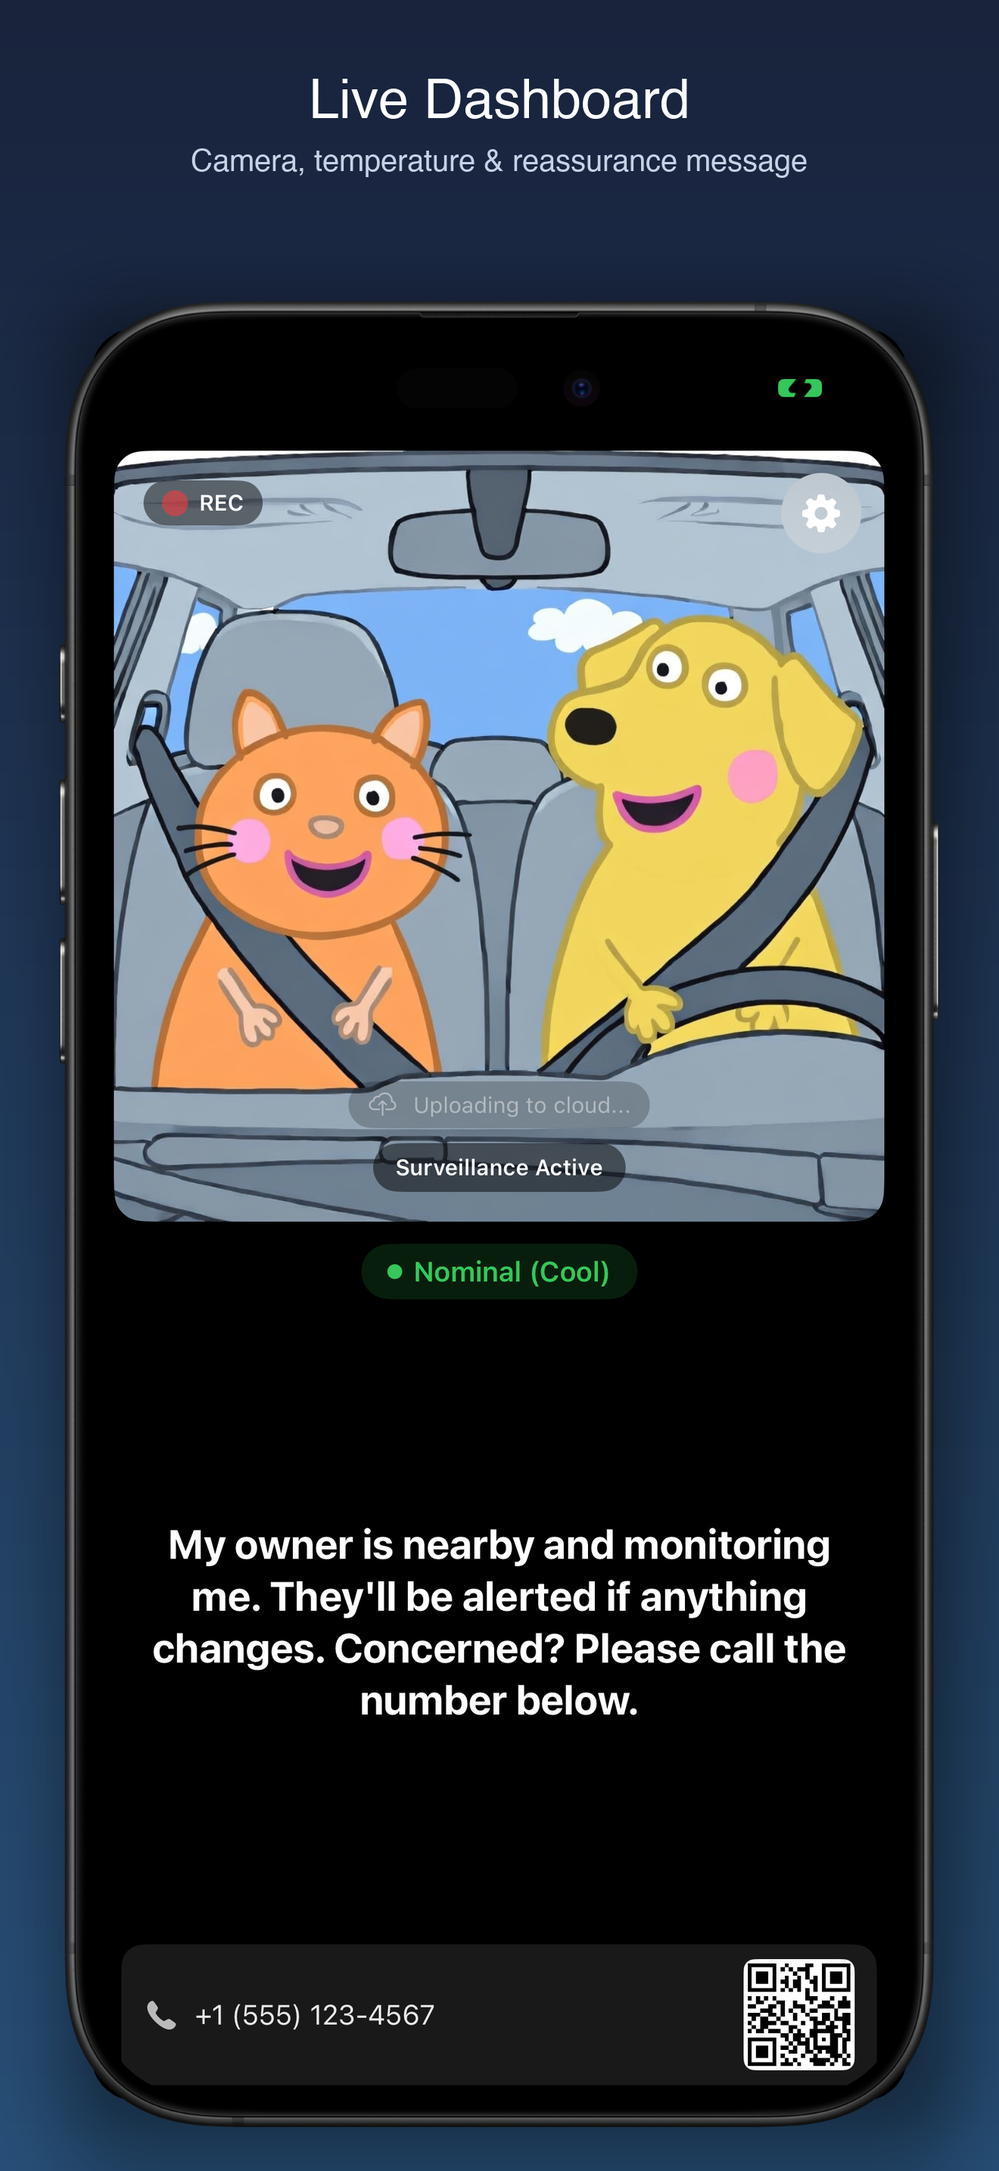
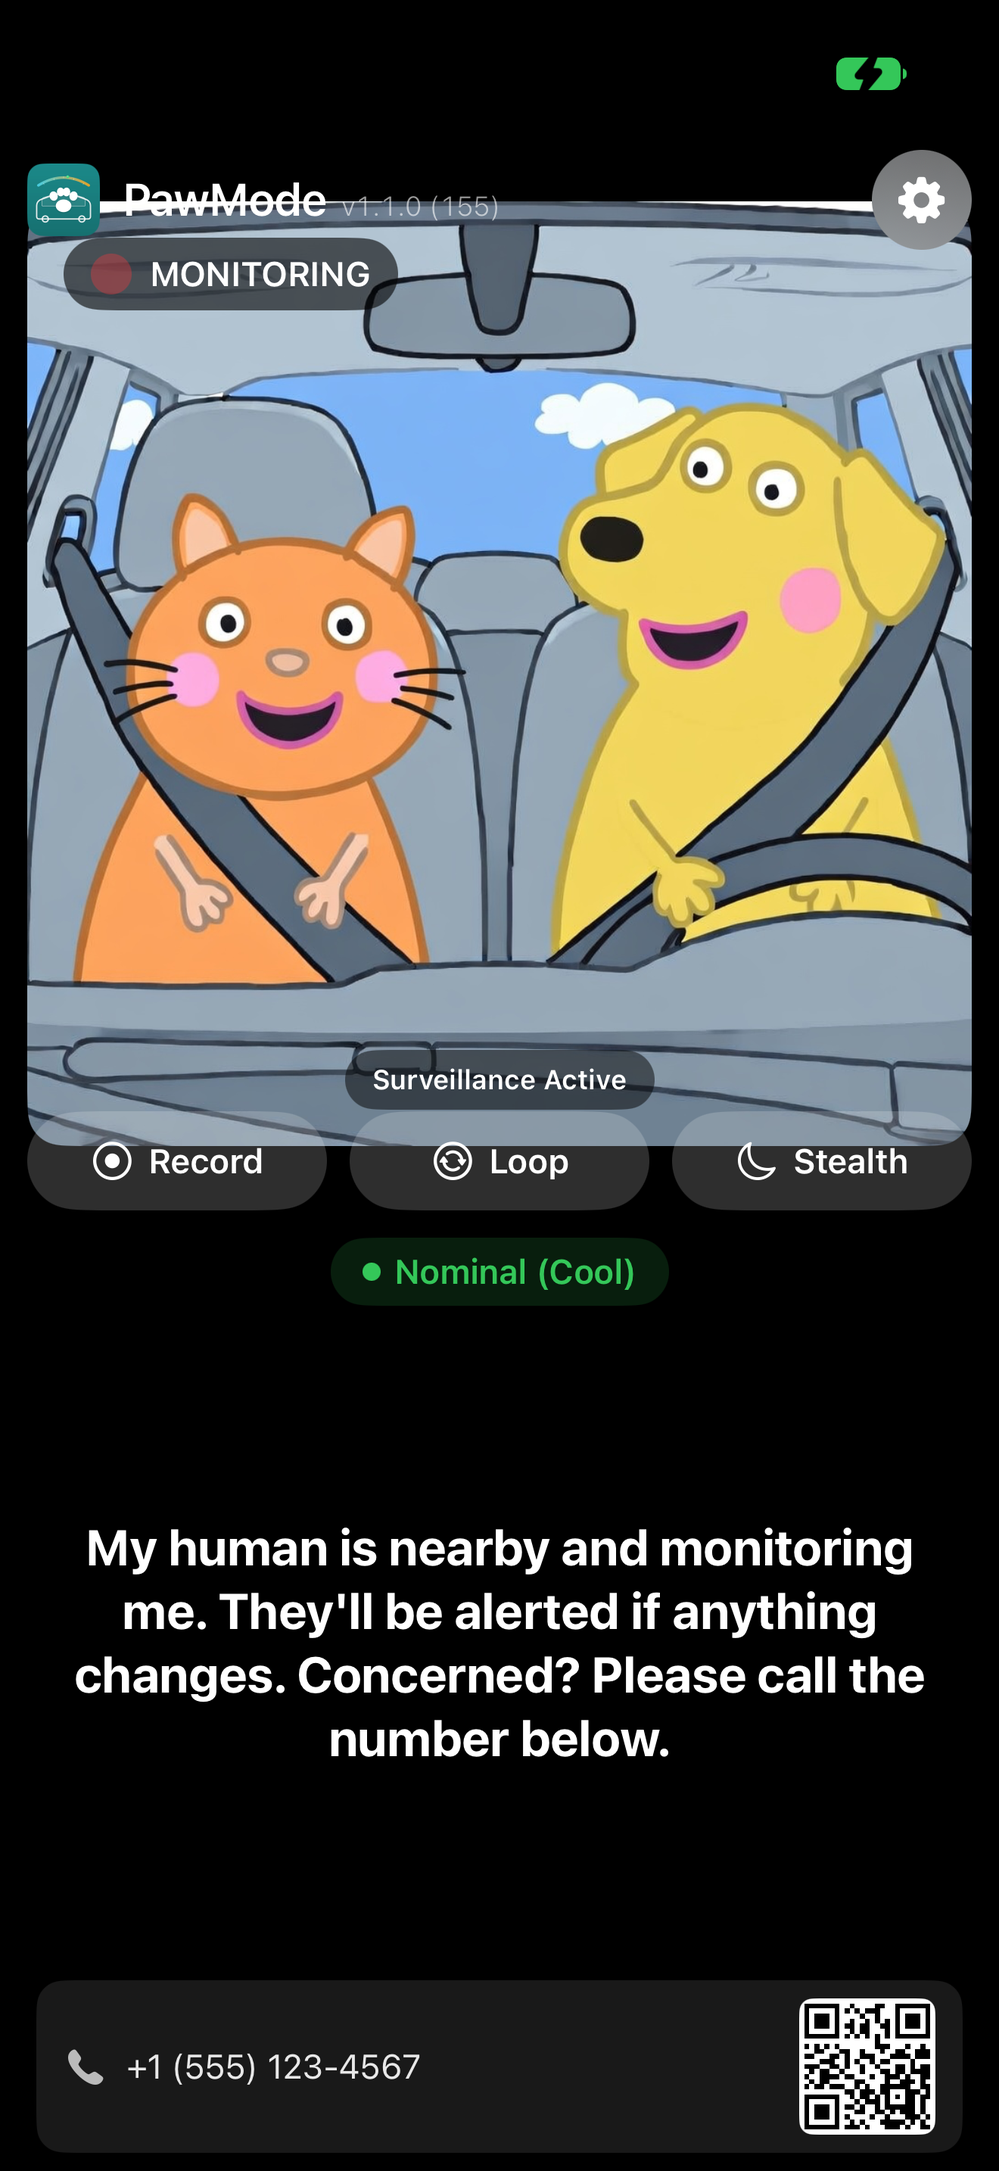
Give PawMode its own featured section and mark 1.1.0 live (#4)
* - promote PawMode to its own featured section, matching the HoverCalc layout
- add feature_promo.png, the Monitor/Personal phone pair cropped from the composite
- give the feature image a navy panel variant so the opaque crop reads as a card
- drop the PawMode card from the "On the workbench" grid now that 1.1.0 is live
- replace the removed idle-dim claim with the opt-in bright-screen behaviour (en/nl/fr)
- update the press kit from "coming soon / in review" to live on the App Store, v1.1.0
- note on the press page that one subscription now covers both paired phones

* - refresh the PawMode screenshots and promo art from the current app
- the Personal dashboard now shows the pet snapshot above View Camera instead of an empty panel
- the Monitor no longer shoots the "No personal phone paired" banner or free-tier padlocks

* - refresh PawMode promo art from the guarded screenshot run

diff --git a/index.html b/index.html
@@ -67,7 +67,7 @@
     *,*::before,*::after{box-sizing:border-box}*{margin:0}html{scroll-behavior:smooth}body{font-family:"DM Sans",sans-serif;color:#17202a;background:#f7f8f5;line-height:1.65;-webkit-font-smoothing:antialiased}img{display:block;max-width:100%}a{color:inherit;text-decoration:none}button{font:inherit}.wrap{width:min(1180px,calc(100% - 48px));margin-inline:auto}.eyebrow{font-size:.76rem;font-weight:700;letter-spacing:.14em;text-transform:uppercase;color:#506757}.section-head{display:flex;align-items:end;justify-content:space-between;gap:32px;margin-bottom:40px}.section-head h2{font:800 clamp(2rem,4vw,3.5rem)/1.05 "Manrope",sans-serif;letter-spacing:-.05em;max-width:700px}.section-head p{color:#657068;max-width:430px}.pill{display:inline-flex;align-items:center;gap:8px;padding:8px 12px;border:1px solid rgba(24,45,31,.12);border-radius:99px;font-size:.76rem;font-weight:700;letter-spacing:.05em;text-transform:uppercase;background:rgba(255,255,255,.55)}.pill::before{content:"";width:7px;height:7px;border-radius:50%;background:#5e7e67}.btn{display:inline-flex;justify-content:center;align-items:center;min-height:48px;padding:0 20px;border-radius:12px;font-weight:700;transition:transform .2s,background .2s,border-color .2s}.btn:hover{transform:translateY(-2px)}.btn-dark{background:#16231a;color:#fff}.btn-light{background:#fff;border:1px solid #dce1dc}.text-link{font-weight:700;border-bottom:1px solid currentColor;padding-bottom:2px}.skip{position:absolute;left:-9999px}.skip:focus{left:12px;top:12px;background:#fff;padding:10px;z-index:999}
     nav{position:absolute;inset:0 0 auto;z-index:10}.nav-inner{height:86px;display:flex;align-items:center;justify-content:space-between}.brand{display:flex;align-items:center;gap:12px;font:800 1rem "Manrope",sans-serif}.brand img{width:38px;height:38px;object-fit:contain}.nav-links{display:flex;align-items:center;gap:28px;list-style:none;font-size:.9rem;font-weight:600}.nav-links a{opacity:.72}.nav-links a:hover{opacity:1}.nav-contact{padding:10px 15px;border:1px solid rgba(23,32,42,.16);border-radius:10px}.menu{display:none;background:none;border:0;padding:8px;cursor:pointer}.menu span{display:block;width:23px;height:2px;background:#17202a;margin:5px}
     .hero{min-height:760px;padding:150px 0 90px;background:#e7ede5;position:relative;overflow:hidden}.hero::before{content:"";position:absolute;width:760px;height:760px;border-radius:50%;background:#d4dfd2;right:-190px;top:-280px}.hero::after{content:"";position:absolute;width:350px;height:350px;border:1px solid rgba(37,70,45,.12);border-radius:50%;right:12%;bottom:-210px}.hero-grid{position:relative;z-index:1;display:grid;grid-template-columns:1.05fr .95fr;align-items:center;gap:80px}.hero h1{font:800 clamp(3.5rem,7vw,6.4rem)/.93 "Manrope",sans-serif;letter-spacing:-.075em;max-width:730px;margin:24px 0 28px}.hero-copy>p{font-size:clamp(1.06rem,1.8vw,1.3rem);color:#4f5d53;max-width:590px}.hero-actions{display:flex;gap:12px;flex-wrap:wrap;margin-top:34px}.hero-visual{position:relative;min-height:490px}.hero-card{position:absolute;border-radius:25px;box-shadow:0 25px 70px rgba(32,50,38,.18);overflow:hidden}.hero-card img{width:100%;height:100%;object-fit:cover}.hero-card-main{inset:20px 50px 20px 0;background:#15261b;transform:rotate(-2deg);padding:22px}.hero-card-main img{object-fit:contain;border-radius:14px}.hero-card-small{width:185px;height:305px;right:0;bottom:-8px;background:#fbfcfa;padding:10px;transform:rotate(5deg)}.hero-card-small img{object-fit:cover;object-position:top;border-radius:16px}.floating-note{position:absolute;top:0;right:10px;z-index:3;background:#fff;padding:13px 16px;border-radius:14px;box-shadow:0 16px 40px rgba(32,50,38,.12);font-size:.82rem;font-weight:700}.floating-note span{color:#607267;font-weight:500;display:block}
-    .featured{padding:110px 0}.featured-card{display:grid;grid-template-columns:.92fr 1.08fr;min-height:590px;background:#17231b;color:#fff;border-radius:30px;overflow:hidden}.feature-copy{padding:64px;display:flex;flex-direction:column;align-items:start;justify-content:center}.feature-copy .eyebrow{color:#9bb2a0}.feature-copy h3{font:800 clamp(2.6rem,5vw,4.5rem)/1 "Manrope",sans-serif;letter-spacing:-.055em;margin:16px 0}.feature-copy>p{color:#c4cec7;font-size:1.12rem;max-width:470px}.feature-list{display:flex;flex-wrap:wrap;gap:8px;margin:30px 0 35px}.feature-list span{padding:7px 11px;background:rgba(255,255,255,.08);border-radius:99px;font-size:.78rem}.feature-copy .btn{background:#f7f8f5;color:#17231b}.feature-image{display:flex;align-items:center;justify-content:center;padding:50px;background:radial-gradient(circle at 50% 45%,#557460 0,#2b4433 45%,#203027 70%)}.feature-image img{filter:drop-shadow(0 28px 36px rgba(0,0,0,.38));max-height:490px;object-fit:contain}
+    .featured{padding:110px 0}.featured-card{display:grid;grid-template-columns:.92fr 1.08fr;min-height:590px;background:#17231b;color:#fff;border-radius:30px;overflow:hidden}.feature-copy{padding:64px;display:flex;flex-direction:column;align-items:start;justify-content:center}.feature-copy .eyebrow{color:#9bb2a0}.feature-copy h3{font:800 clamp(2.6rem,5vw,4.5rem)/1 "Manrope",sans-serif;letter-spacing:-.055em;margin:16px 0}.feature-copy>p{color:#c4cec7;font-size:1.12rem;max-width:470px}.feature-list{display:flex;flex-wrap:wrap;gap:8px;margin:30px 0 35px}.feature-list span{padding:7px 11px;background:rgba(255,255,255,.08);border-radius:99px;font-size:.78rem}.feature-copy .btn{background:#f7f8f5;color:#17231b}.feature-image{display:flex;align-items:center;justify-content:center;padding:50px;background:radial-gradient(circle at 50% 45%,#557460 0,#2b4433 45%,#203027 70%)}.feature-image img{filter:drop-shadow(0 28px 36px rgba(0,0,0,.38));max-height:490px;object-fit:contain}.feature-image.paw{background:radial-gradient(circle at 50% 45%,#2c5480 0,#20395b 55%,#182b45 100%)}.feature-image.paw img{border-radius:18px}
     .apps{padding:20px 0 115px}.app-grid{display:grid;grid-template-columns:repeat(3,1fr);gap:22px}.app-card{display:flex;flex-direction:column;background:#fff;border:1px solid #e2e5e0;border-radius:22px;overflow:hidden;transition:transform .25s,box-shadow .25s}.app-card:hover{transform:translateY(-5px);box-shadow:0 24px 55px rgba(24,45,31,.1)}.app-art{height:280px;padding:25px;position:relative;overflow:hidden}.app-art img{height:100%;width:100%;object-fit:contain;position:relative;z-index:1;filter:drop-shadow(0 18px 25px rgba(0,0,0,.18))}.app-art.pdp{background:#f2ebe5}.app-art.unfold{background:#e8e9f1}.app-art.paw{background:#e9eee6}.app-art.listsweep{background:#e8eef8}.abstract-icon{height:100%;display:grid;place-items:center;position:relative}.abstract-icon .glyph{width:130px;height:130px;border-radius:30px;display:grid;place-items:center;font:800 3rem "Manrope";box-shadow:0 20px 35px rgba(35,42,56,.2)}.unfold .glyph{background:linear-gradient(145deg,#333849,#11141c);color:#e6e8f2}.unfold .glyph::after{content:"";width:42px;height:54px;border:4px solid currentColor;border-top-width:13px;border-radius:7px}.paw .glyph{background:linear-gradient(145deg,#738b68,#2e4934);color:#fff}.paw .glyph::after{content:"●  ●";letter-spacing:9px;font-size:1.1rem}.listsweep .glyph{background:linear-gradient(145deg,#3a7bd5,#0a84ff);color:#fff}.listsweep .glyph::after{content:"↺";font-size:3.4rem;font-weight:300;line-height:1}.app-body{padding:27px;display:flex;flex-direction:column;flex:1}.app-top{display:flex;justify-content:space-between;align-items:center;gap:12px}.app-body h3{font:800 1.5rem "Manrope";letter-spacing:-.035em}.app-body>p{color:#667169;margin:13px 0 24px}.app-body .text-link{margin-top:auto;align-self:flex-start}.status{font-size:.7rem;font-weight:700;text-transform:uppercase;letter-spacing:.08em;color:#5e7164}.status.live{color:#24653a}
     .about{padding:110px 0;background:#ecefe9}.about-grid{display:grid;grid-template-columns:.85fr 1.15fr;gap:110px}.about h2{font:800 clamp(2.2rem,4vw,3.6rem)/1.05 "Manrope";letter-spacing:-.05em;margin-top:16px}.about-copy{font-size:1.1rem;color:#4f5b53}.about-copy p+p{margin-top:18px}.expertise{display:flex;flex-wrap:wrap;gap:9px;margin-top:28px}.expertise span{padding:8px 12px;border:1px solid #cbd3ca;border-radius:8px;background:rgba(255,255,255,.35);font-size:.82rem;font-weight:600}
     .testimonials{padding:115px 0}.quotes{columns:3;column-gap:20px}.quote{break-inside:avoid;margin-bottom:20px;padding:27px;background:#fff;border:1px solid #e1e5df;border-radius:18px}.quote::before{content:"“";display:block;font:700 3.3rem/1 Georgia;color:#9aab9c}.quote blockquote{color:#4e5951}.person{display:flex;align-items:center;gap:11px;margin-top:24px}.avatar{display:grid;place-items:center;width:38px;height:38px;border-radius:50%;background:#e4ebe2;font-size:.7rem;font-weight:700}.person strong{font:700 .9rem "Manrope";display:block}.person span{font-size:.78rem;color:#778079}
@@ -108,6 +108,16 @@
 
     <section class="featured">
       <div class="wrap">
+        <div class="section-head"><div><span class="eyebrow">New release</span><h2>Meet PawMode.</h2></div><p>Turn a spare iPhone into a live pet monitor for any parked car, and check in on it from your pocket.</p></div>
+        <article class="featured-card">
+          <div class="feature-copy"><span class="eyebrow">For iPhone &amp; iPad</span><h3>Never leave them without a watchful eye.</h3><p>One iPhone stays in the car and watches over your pet. The other stays with you. They check in every minute, so you know your pet is fine &mdash; and hear about it the moment they are not.</p><div class="feature-list"><span>Live camera</span><span>Thermal alerts</span><span>Pair by QR code</span><span>Message for passersby</span></div><a class="btn" href="https://apps.apple.com/app/id6749402535" target="_blank" rel="noopener noreferrer">View on the App Store →</a></div>
+          <div class="feature-image paw"><img src="assets/apps/pawmode/feature_promo.png" alt="PawMode Monitor and Personal modes side by side on two iPhones"></div>
+        </article>
+      </div>
+    </section>
+
+    <section class="featured">
+      <div class="wrap">
         <div class="section-head"><div><span class="eyebrow">Also available</span><h2>Meet HoverCalc.</h2></div><p>A fast calculator that is there when you need it and out of the way when you don’t.</p></div>
         <article class="featured-card">
           <div class="feature-copy"><span class="eyebrow">For macOS</span><h3>Math, without breaking your flow.</h3><p>Run quick calculations from the menu bar, or detach HoverCalc into a floating panel that follows you across desktops and fullscreen apps.</p><div class="feature-list"><span>Global hotkey</span><span>Floating panel</span><span>Calculation history</span><span>Six themes</span></div><a class="btn" href="https://apps.apple.com/be/app/hovercalc/id6759318126?mt=12" target="_blank" rel="noopener noreferrer">View on the Mac App Store →</a></div>
@@ -121,7 +131,6 @@
         <div class="app-grid">
           <article class="app-card"><div class="app-art pdp"><img src="assets/apps/pickdateplace/organizer-02.png" alt="PickDatePlace date options on iPhone"></div><div class="app-body"><div class="app-top"><h3>PickDatePlace</h3><span class="status">In development</span></div><p>Choose the date first, then the place. Create an availability poll in iMessage and find the time that works for everyone.</p><a class="text-link" href="pickdateplace/">Discover PickDatePlace →</a></div></article>
           <article class="app-card"><div class="app-art unfold"><div class="abstract-icon"><div class="glyph" aria-hidden="true"></div></div></div><div class="app-body"><div class="app-top"><h3>Unfold</h3><span class="status">In development</span></div><p>A window-aware macOS app switcher. Move from an app directly to the exact window you need, without reaching for the mouse.</p><a class="text-link" href="unfold/">Discover Unfold →</a></div></article>
-          <article class="app-card"><div class="app-art paw"><div class="abstract-icon"><div class="glyph" aria-hidden="true"></div></div></div><div class="app-body"><div class="app-top"><h3>PawMode</h3><span class="status">In development</span></div><p>Turn a spare iPhone into a vehicle monitor that watches temperature and helps reassure passersby that your pet is safe.</p><a class="text-link" href="pawmode/">Discover PawMode →</a></div></article>
           <article class="app-card"><div class="app-art listsweep"><img src="assets/apps/listsweep/icon.png" alt="ListSweep app icon"></div><div class="app-body"><div class="app-top"><h3>ListSweep</h3><span class="status">In development</span></div><p>Bulk-reset completed Apple Reminders in one tap. Recurring checklists, swipe actions, and Siri &amp; Shortcuts — private and on-device.</p><a class="text-link" href="listsweep/">Discover ListSweep →</a></div></article>
         </div>
       </div>

diff --git a/pawmode/press/index.html b/pawmode/press/index.html
@@ -214,15 +214,16 @@
   <section class="hero">
     <div class="hero-content">
       <img class="hero-icon" src="/assets/apps/pawmode/icon.png" alt="PawMode app icon">
-      <span class="eyebrow">Press &amp; Media Kit</span><span class="status-pill">Coming soon</span>
+      <span class="eyebrow">Press &amp; Media Kit</span><span class="status-pill">Now on the App Store</span>
       <h1>PawMode</h1>
       <p class="tagline">Monitor your pet in the car.</p>
       <p class="lede">Turn a spare iPhone into a live pet monitor for any parked car &mdash; check in on your pet from anywhere.</p>
       <div class="cta-row">
         <a class="btn btn-primary" href="/assets/apps/pawmode/press/pawmode-press-kit.zip" download>Download press kit (.zip)</a>
-        <a class="btn btn-outline" href="mailto:michelstorms@icloud.com?subject=PawMode%20%E2%80%94%20press%20%2F%20beta%20access">Request beta / press access</a>
+        <a class="btn btn-outline" href="https://apps.apple.com/app/id6749402535">View on the App Store</a>
+        <a class="btn btn-outline" href="mailto:michelstorms@icloud.com?subject=PawMode%20%E2%80%94%20press%20access">Request press access</a>
       </div>
-      <p class="hero-note">Currently in TestFlight beta and App Store review &mdash; not yet publicly available.</p>
+      <p class="hero-note">Version 1.1.0 is live on the App Store for iPhone and iPad.</p>
     </div>
   </section>
 
@@ -242,7 +243,7 @@
           <div class="fact"><dt>Subtitle</dt><dd>Monitor Your Pet in the Car</dd></div>
           <div class="fact"><dt>Platform</dt><dd>iOS — iPhone &amp; iPad</dd></div>
           <div class="fact"><dt>Minimum iOS</dt><dd>18.5</dd></div>
-          <div class="fact"><dt>Status</dt><dd>TestFlight beta · in review</dd></div>
+          <div class="fact"><dt>Status</dt><dd><a href="https://apps.apple.com/app/id6749402535">Live on the App Store</a> · v1.1.0</dd></div>
           <div class="fact"><dt>Developer</dt><dd>Michel Storms (solo)</dd></div>
         </dl>
         <dl>
@@ -282,7 +283,7 @@
         <div class="pairing-card">
           <span class="badge">Monitor</span>
           <h3>The phone in your vehicle</h3>
-          <p>Live front-camera feed, thermal-state display, a reassurance message for passersby, a contact QR code, video recording and timed auto-snapshots. Keeps the screen awake and auto-dims after inactivity; a passcode lock prevents tampering.</p>
+          <p>Live front-camera feed, thermal-state display, a reassurance message for passersby, a contact QR code, video recording and timed auto-snapshots. Keeps the screen awake, with an opt-in switch to hold it at full brightness so the message stays readable through the car window; a passcode lock prevents tampering.</p>
         </div>
         <div class="pairing-card">
           <span class="badge">Personal</span>
@@ -340,6 +341,7 @@
             <li>Edit the displayed message remotely</li>
             <li>Bluetooth thermometer support for true cabin temperature</li>
             <li>Background heartbeat + the full alert set</li>
+            <li>One subscription covers both paired phones — no second purchase</li>
           </ul>
         </div>
       </div>
@@ -355,7 +357,7 @@
           <h3>Free Premium &mdash; and a guided test pairing</h3>
           <p>Reviewers and press: free PawMode Premium, plus a walkthrough of a live two-device pairing so you can demo it end-to-end. Email <a href="mailto:michelstorms@icloud.com" style="color:var(--accent-light); text-decoration:underline; text-underline-offset:3px;">michelstorms@icloud.com</a> &mdash; mention your outlet or channel.</p>
           <a class="btn btn-primary" href="mailto:michelstorms@icloud.com?subject=PawMode%20%E2%80%94%20press%20enquiry">Email the developer</a>
-          <p class="sub">TestFlight beta invites available on request.</p>
+          <p class="sub">TestFlight builds of upcoming versions available on request.</p>
         </div>
       </div>
     </div>

diff --git a/pawmode/index.html b/pawmode/index.html
@@ -578,7 +578,7 @@
         <div class="pairing-card">
           <span class="badge" data-i18n="pairing.monitor.badge">Monitor</span>
           <h3 data-i18n="pairing.monitor.title">The phone in your vehicle</h3>
-          <p data-i18n="pairing.monitor.desc">Live front-camera feed, thermal state display, reassurance message for passersby, contact QR code, video recording, and timed auto-snapshots. Keeps the screen awake and auto-dims after 5 minutes of inactivity.</p>
+          <p data-i18n="pairing.monitor.desc">Live front-camera feed, thermal state display, reassurance message for passersby, contact QR code, video recording, and timed auto-snapshots. Keeps the screen awake, and can hold it at full brightness so your message stays readable through the car window.</p>
         </div>
         <div class="pairing-card">
           <span class="badge" data-i18n="pairing.personal.badge">Personal</span>
@@ -656,7 +656,7 @@
       "pairing.title": "Monitor in de auto, Persoonlijk in je zak",
       "pairing.monitor.badge": "Monitor",
       "pairing.monitor.title": "De telefoon in je voertuig",
-      "pairing.monitor.desc": "Live frontcamerabeeld, weergave van thermische toestand, geruststelling voor omstanders, contact-QR-code, video-opname en getimede automatische snapshots. Houdt het scherm actief en dimt na 5 minuten inactiviteit automatisch.",
+      "pairing.monitor.desc": "Live frontcamerabeeld, weergave van thermische toestand, geruststelling voor omstanders, contact-QR-code, video-opname en getimede automatische snapshots. Houdt het scherm actief en kan het op volle helderheid houden zodat je bericht leesbaar blijft door het autoraam.",
       "pairing.personal.badge": "Persoonlijk",
       "pairing.personal.title": "De telefoon die je bij je draagt",
       "pairing.personal.desc": "Extern dashboard met thermische toestand, batterijlevel, oplaadstatus en sensorwaarden. Vraag snapshots op, bewerk het weergegeven bericht en ontvang pushmeldingen zodra de omstandigheden veranderen of de monitor offline gaat.",
@@ -708,7 +708,7 @@
       "pairing.title": "Le Moniteur dans la voiture, le Personnel dans votre poche",
       "pairing.monitor.badge": "Moniteur",
       "pairing.monitor.title": "Le téléphone dans votre véhicule",
-      "pairing.monitor.desc": "Flux caméra frontale en direct, affichage de l'état thermique, message rassurant pour les passants, QR code de contact, enregistrement vidéo et captures automatiques programmées. Maintient l'écran actif et réduit la luminosité après 5 minutes d'inactivité.",
+      "pairing.monitor.desc": "Flux caméra frontale en direct, affichage de l'état thermique, message rassurant pour les passants, QR code de contact, enregistrement vidéo et captures automatiques programmées. Maintient l'écran actif et peut le garder à pleine luminosité pour que votre message reste lisible à travers la vitre.",
       "pairing.personal.badge": "Personnel",
       "pairing.personal.title": "Le téléphone que vous portez",
       "pairing.personal.desc": "Tableau de bord distant avec état thermique, niveau de batterie, statut de charge et relevés des capteurs. Demandez des captures, modifiez le message affiché et recevez des alertes push dès que les conditions changent ou que le moniteur se déconnecte.",
